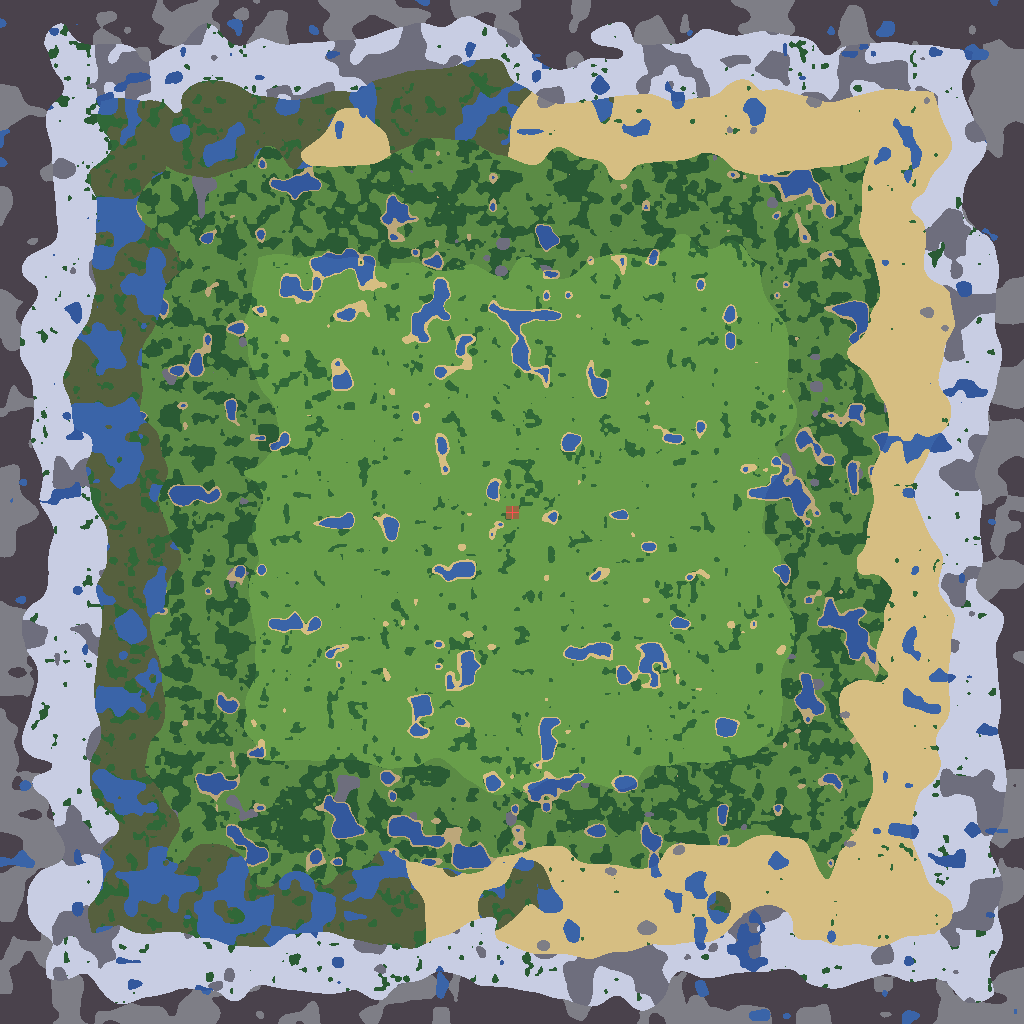
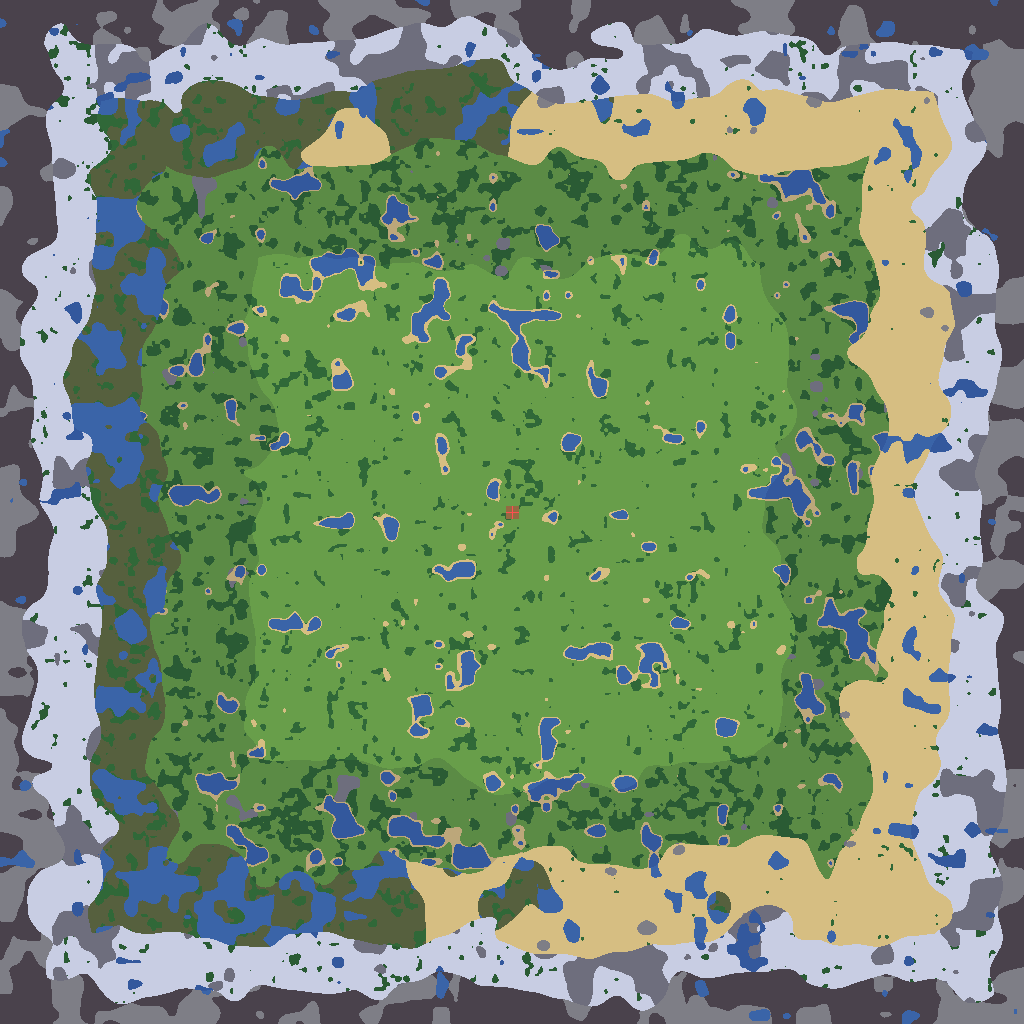
P1b: terrain and trees on Ninja Adventure art, one screenshot per biome
The game was mixing two styles — characters were Ninja Adventure while the
ground they stood on was Kenney — and it showed. Terrain and trees now come
from Ninja Adventure; buildings and crops do not yet, and that is called out
in assets/CREDITS.md rather than left to be noticed.

Fill tiles were found by scanning every tileset for low-variance (flat) tiles
and matching mean colour against the terrain palette, instead of eyeballing
five hundred tiles a sheet. The one tile I did pick by eye, TilesetTowers
(0,0), turned out to be a tower roof rather than a tree, and rendered exactly
like a field of tower roofs until the screenshots showed it.

Three new terrains got real art: snow, marsh and ash, which the ring rewrite
introduced but nothing had drawn yet. Trees are drawn over the ground their
own ring uses, so a wood in the snow ring is rooted in snow rather than
transplanted onto a lawn. Forest density dropped from flora > 0.55 to 0.63
because at the old value a forest was a solid mass of canopy with no gaps to
walk through — 11.0% of the map was tree, now 7.9%.

Adds `--ring N` to the client, which parks the camera at the middle radius of
a biome ring for screenshots. The first version walked outward one step at a
time with a capped step count, which could not physically reach the outer
rings along a diagonal — rings 2, 3 and 4 all produced the same image.
Computing the radius directly fixes it.
[…]

diff --git a/src/render/atlas_slots.hpp b/src/render/atlas_slots.hpp
@@ -22,6 +22,9 @@ enum class Slot : std::uint8_t {
     kTerrainWater,
     kTerrainStone,
     kTerrainSand,
+    kTerrainSnow,
+    kTerrainMarsh,
+    kTerrainAsh,
     kTreeTop,
     kTree,
     kTreeTopPine,
@@ -48,23 +51,26 @@ inline constexpr AtlasRect kAtlasRects[static_cast<int>(Slot::kCount)] = {
     {37, 1},  // kTerrainWater
     {55, 1},  // kTerrainStone
     {73, 1},  // kTerrainSand
-    {91, 1},  // kTreeTop
-    {109, 1},  // kTree
-    {127, 1},  // kTreeTopPine
-    {1, 19},  // kTreePine
-    {19, 19},  // kCropSeedling
-    {37, 19},  // kCropGrowing
-    {55, 19},  // kCropWheatRipe
-    {73, 19},  // kCropCarrotRipe
-    {91, 19},  // kCropPumpkinRipe
-    {109, 19},  // kBuildHearth
-    {127, 19},  // kBuildWall
-    {1, 37},  // kBuildWallRun
-    {19, 37},  // kBuildTurret
-    {37, 37},  // kBuildPlot
-    {55, 37},  // kBuildFence
-    {73, 37},  // kBuildFencePost
-    {91, 37},  // kSpawnCamp
+    {91, 1},  // kTerrainSnow
+    {109, 1},  // kTerrainMarsh
+    {127, 1},  // kTerrainAsh
+    {1, 19},  // kTreeTop
+    {19, 19},  // kTree
+    {37, 19},  // kTreeTopPine
+    {55, 19},  // kTreePine
+    {73, 19},  // kCropSeedling
+    {91, 19},  // kCropGrowing
+    {109, 19},  // kCropWheatRipe
+    {127, 19},  // kCropCarrotRipe
+    {1, 37},  // kCropPumpkinRipe
+    {19, 37},  // kBuildHearth
+    {37, 37},  // kBuildWall
+    {55, 37},  // kBuildWallRun
+    {73, 37},  // kBuildTurret
+    {91, 37},  // kBuildPlot
+    {109, 37},  // kBuildFence
+    {127, 37},  // kBuildFencePost
+    {1, 55},  // kSpawnCamp
 };
 
 [[nodiscard]] inline constexpr AtlasRect rect_of(Slot s) noexcept {
@@ -94,12 +100,12 @@ enum class Anim : std::uint8_t {
 };
 
 inline constexpr AtlasAnim kAtlasAnims[static_cast<int>(Anim::kCount)] = {
-    {1, 55, 4, 4},  // kPlayer
-    {1, 127, 4, 4},  // kMobSlime
-    {1, 199, 4, 4},  // kMobSpider
-    {1, 271, 4, 4},  // kMobSpirit
-    {1, 343, 2, 1},  // kChicken
-    {1, 361, 2, 1},  // kCow
+    {1, 73, 4, 4},  // kPlayer
+    {1, 145, 4, 4},  // kMobSlime
+    {1, 217, 4, 4},  // kMobSpider
+    {1, 289, 4, 4},  // kMobSpirit
+    {1, 361, 2, 1},  // kChicken
+    {1, 379, 2, 1},  // kCow
 };
 
 [[nodiscard]] inline constexpr const AtlasAnim& anim_of(Anim a) noexcept {

diff --git a/tools/build_atlas.py b/tools/build_atlas.py
@@ -29,6 +29,15 @@ SHEETS = {
     "RL": (SRC / "roguelike/Spritesheet/roguelikeSheet_transparent.png", 17),
     "TT": (SRC / "tinytown/Tilemap/tilemap_packed.png", 16),
     "TD": (SRC / "tinydungeon/Tilemap/tilemap_packed.png", 16),
+    # Ninja Adventure tilesets. No gutter, so stride 16. Fill tiles were located by scanning every
+    # sheet for low-variance (flat) tiles and matching mean colour against the terrain palette —
+    # eyeballing 500 tiles per sheet is not a method.
+    "NFloor": (SRC / "ninja/Backgrounds/Tilesets/TilesetFloor.png", 16),
+    "NWater": (SRC / "ninja/Backgrounds/Tilesets/TilesetWater.png", 16),
+    "NDesert": (SRC / "ninja/Backgrounds/Tilesets/TilesetDesert.png", 16),
+    "NRelief": (SRC / "ninja/Backgrounds/Tilesets/TilesetRelief.png", 16),
+    "NLogic": (SRC / "ninja/Backgrounds/Tilesets/TilesetLogic.png", 16),
+    "NTree": (SRC / "ninja/Backgrounds/Tilesets/TilesetNature.png", 16),
 }
 
 TILE = 16
@@ -41,21 +50,23 @@ KEY_COLOR = {"TD": (63, 38, 49, 255)}
 
 # slot name -> (sheet, col, row).  Order defines the generated enum order.
 MANIFEST = [
-    # --- terrain (opaque, drawn as the base layer) ---
-    ("TerrainGrass",     "RL",  5,  1),
-    ("TerrainDirt",      "RL",  6,  1),
-    ("TerrainWater",     "RL",  1,  0),
-    ("TerrainStone",     "RL",  7,  1),
-    ("TerrainSand",      "RL",  8,  1),
-    # --- overlays (transparent, drawn over grass) ---
-    # The roguelike pack's tall tree is TWO tiles: canopy dome on top of canopy-base-plus-trunk.
-    # Row 9 holds a complete one-tile tree, but the two-tile version is what reads as a forest.
-    ("TreeTop",          "RL", 13, 10),
-    ("Tree",             "RL", 13, 11),
-    # A second species, picked per tile by hash. One repeated tree sprite made a forest read as a
-    # stamped grid; two silhouettes plus mirroring breaks the pattern without more art.
-    ("TreeTopPine",      "RL", 16, 10),
-    ("TreePine",         "RL", 16, 11),
+    # --- terrain (opaque, drawn as the base layer) — all Ninja Adventure ---
+    ("TerrainGrass",     "NFloor",   0, 12),
+    ("TerrainDirt",      "NFloor",  11, 19),
+    ("TerrainWater",     "NWater",   1,  1),
+    ("TerrainStone",     "NFloor",  20, 14),
+    ("TerrainSand",      "NDesert", 15,  8),
+    ("TerrainSnow",      "NFloor",   0, 19),
+    ("TerrainMarsh",     "NRelief",  8,  1),
+    ("TerrainAsh",       "NLogic",   6,  0),
+    # --- overlays (transparent, drawn over the base layer) ---
+    # Ninja Adventure's trees are two tiles as well: canopy on top of trunk.
+    ("TreeTop",          "NTree",    5,  3),
+    ("Tree",             "NTree",    5,  4),
+    # A second species, picked per tile by hash — one repeated sprite makes a forest read as a
+    # stamped grid.
+    ("TreeTopPine",      "NTree",    1,  3),
+    ("TreePine",         "NTree",    1,  4),
     # --- crops: stage 0-1 use the seedling, 2 the growing plant, 3 the ripe per-kind sprite ---
     ("CropSeedling",     "RL", 44, 23),
     ("CropGrowing",      "RL", 44, 24),

diff --git a/src/render/raylib_bridge.cpp b/src/render/raylib_bridge.cpp
@@ -15,6 +15,20 @@ namespace {
 // The only place game concepts meet sprites. WHICH pixels a slot points at is decided by the
 // manifest in tools/build_atlas.py, not here — so re-arting the game never touches this file.
 
+// What a tree stands on, per ring — so a wood in the snow ring is rooted in snow rather than
+// transplanted onto a lawn.
+[[nodiscard]] Terrain ground_under_tree(Ring r) {
+    switch (r) {
+        case Ring::kMeadow:
+        case Ring::kForest: return Terrain::kGrass;
+        case Ring::kWetland: return Terrain::kMarsh;
+        case Ring::kSnow: return Terrain::kSnow;
+        case Ring::kWasteland:
+        case Ring::kCount: break;
+    }
+    return Terrain::kAsh;
+}
+
 [[nodiscard]] Slot slot_of(Terrain t) {
     switch (t) {
         case Terrain::kGrass: return Slot::kTerrainGrass;
@@ -22,7 +36,13 @@ namespace {
         case Terrain::kWater: return Slot::kTerrainWater;
         case Terrain::kStone: return Slot::kTerrainStone;
         case Terrain::kSand: return Slot::kTerrainSand;
-        case Terrain::kTree: return Slot::kTerrainGrass;  // tree is an OVERLAY drawn over grass
+        case Terrain::kSnow: return Slot::kTerrainSnow;
+        case Terrain::kMarsh: return Slot::kTerrainMarsh;
+        case Terrain::kAsh: return Slot::kTerrainAsh;
+        // A tree is an OVERLAY: the base layer under it is whatever the surrounding ring uses, so
+        // a forest in the snow ring stands on snow rather than on grass.
+        case Terrain::kTree: return Slot::kTerrainGrass;
+        case Terrain::kCount: break;
     }
     return Slot::kTerrainGrass;
 }
@@ -229,7 +249,13 @@ void RaylibBridge::draw(const SnapshotBus& bus, const WorldStatus& status,
                     const int gx = base_x + lx;
                     if (gx < min_tx || gx > max_tx) continue;
                     const auto t = static_cast<Terrain>(v->terrain[ly * kChunkTiles + lx]);
-                    im.tile(slot_of(t), gx, gy, WHITE, tile_variant(c.map, gx, gy));
+                    // Trees are drawn over the ring's own ground, so a forest in the snow ring
+                    // stands on snow. Without this every wood looked like it had been transplanted
+                    // onto a lawn.
+                    const Slot base = (t == Terrain::kTree)
+                                          ? slot_of(ground_under_tree(ring_of(kWorldSeed, gx, gy)))
+                                          : slot_of(t);
+                    im.tile(base, gx, gy, WHITE, tile_variant(c.map, gx, gy));
                 }
             }
             // Trees, top-down within the chunk so a nearer tree's canopy overlaps the one behind it.

diff --git a/src/client_main.cpp b/src/client_main.cpp
@@ -30,12 +30,15 @@ int main(int argc, char** argv) {
     const char* shot_path = nullptr;
     int look_camp = -1;            // --camp N: point the camera at spawn camp N instead of the farm
     const char* shot_screen = nullptr;  // --screen NAME: force a shell screen for the screenshot
+    int look_ring = -1;                 // --ring N: park the camera in biome ring N
     for (int i = 1; i < argc; ++i) {
         if (std::strcmp(argv[i], "--shot") == 0 && i + 2 < argc) {
             shot_seconds = std::atoi(argv[i + 1]);
             shot_path = argv[i + 2];
         } else if (std::strcmp(argv[i], "--camp") == 0 && i + 1 < argc) {
             look_camp = std::atoi(argv[i + 1]);
+        } else if (std::strcmp(argv[i], "--ring") == 0 && i + 1 < argc) {
+            look_ring = std::atoi(argv[i + 1]);  // 0..4 — put the camera in that biome ring
         } else if (std::strcmp(argv[i], "--screen") == 0 && i + 1 < argc) {
             shot_screen = argv[i + 1];  // menu | journal | paused — for verifying the shell
         }
@@ -128,6 +131,22 @@ int main(int argc, char** argv) {
 
         // The camera follows the player, so looking at a spawn camp means walking there. The move
         // is relative, hence the delta.
+        // Park the camera at the MIDDLE radius of the requested ring. An earlier version walked
+        // outward a step at a time and capped the step count, which could not physically reach the
+        // outer rings along a diagonal — rings 2, 3 and 4 all produced the same screenshot.
+        if (look_ring >= 0 && look_ring < kRingCount) {
+            const float inner = look_ring == 0 ? 0.0f : kRingEdge[look_ring - 1];
+            const float outer = std::min(kRingEdge[look_ring], 0.99f);
+            const float mid = (inner + outer) * 0.5f;
+            const float half = static_cast<float>(kMapTiles) * 0.5f;
+            // Chebyshev radius `mid` means max(|dx|,|dy|) == mid*half; lead with x and take a
+            // fraction of it in y so the shot is not on a perfect diagonal.
+            const float bx = half + mid * half;
+            const float by = half + mid * half * 0.35f;
+            world.move_player(bx - player.x, by - player.y);
+            world.sync_world();
+            player = world.player_view();
+        }
         if (look_camp >= 0 && look_camp < kSpawnCamps) {
             const auto camps = World::camps(player.map);
             const auto [ctx, cty] = camps[static_cast<std::size_t>(look_camp)];

diff --git a/src/world/tiles.hpp b/src/world/tiles.hpp
@@ -35,6 +35,10 @@ inline constexpr int kChunkCount = kMapCount * kChunksPerMap;
 
 inline constexpr std::uint16_t kOverworld = 0;
 
+// The world seed lives here, not in world.hpp, because `terrain_of` is the thing that consumes it
+// and the renderer needs it too (to know which ring a tile is in without asking an actor).
+inline constexpr std::uint64_t kWorldSeed = 0x5EED'0BEEF'CAFEull;
+
 // Where a new player is dropped: the centre of the map, which is also the easiest ring. The tilled
 // apron there is part of the terrain *function* (below), not an edit applied afterwards — see
 // `terrain_of`. Once world generation lands (ROADMAP P1) this becomes "the starting village", and
@@ -400,7 +404,7 @@ private:
             if (wet < 0.26f) return Terrain::kWater;
             if (wet < 0.30f) return Terrain::kSand;
             if (rock > 0.80f) return Terrain::kStone;
-            if (flora > 0.55f) return Terrain::kTree;  // dense
+            if (flora > 0.63f) return Terrain::kTree;  // dense, but with gaps you can walk through
             return Terrain::kGrass;
 
         case Ring::kWetland: {

diff --git a/src/world/world.hpp b/src/world/world.hpp
@@ -34,7 +34,6 @@
 
 namespace mmo {
 
-inline constexpr std::uint64_t kWorldSeed = 0x5EED'0BEEF'CAFEull;
 inline constexpr std::uint64_t kPlayerKey = 1;
 inline constexpr std::uint64_t kDirectorKey = 1;
 

diff --git a/README.md b/README.md
@@ -21,6 +21,19 @@ a gate when you feel like an adventure. Built on the [QuarkCpp](../QuarkCpp) act
 <sub>The whole 1024x1024 overworld, exported by `mmo_worldmap`. Difficulty radiates out from the
 centre: Meadow, Forest, Wetland (swamp west / desert east), Snow, Wasteland.</sub>
 
+### Biomes
+
+| | |
+|---|---|
+| ![meadow](docs/biomes/ring0.png) | ![forest](docs/biomes/ring1.png) |
+| **Meadow** — the chill ring, 26% of the map | **Forest** |
+| ![wetland](docs/biomes/ring2.png) | ![snow](docs/biomes/ring3.png) |
+| **Wetland** — desert east, swamp west | **Snow** |
+| ![wasteland](docs/biomes/ring4.png) | |
+| **Wasteland** | |
+
+<sub>`./build/mmo_client --shot 20 out.png --ring N` parks the camera in biome ring N.</sub>
+
 ![farm](docs/shot_farm.png)
 
 <sub>Day: the walled farm, turrets (gold pips mark upgrade level), flanking fences, crops at four

diff --git a/assets/CREDITS.md b/assets/CREDITS.md
@@ -32,8 +32,17 @@ things walking around in it as another.
 
 This is not a licensing problem (both are CC0) but it is a quality one, and it is being fixed in P1
 rather than left, because P1 rewrites the terrain system anyway (radial biome rings) and the tileset
-has to be touched regardless. Ninja Adventure ships a complete 16x16 tileset family that covers
-everything Kenney was doing here:
+has to be touched regardless.
+
+**Done so far: terrain and trees.** All nine terrain types and both tree species now come from Ninja
+Adventure. **Still Kenney: buildings** — wall, turret, fence, hearth, plot — and the crop sprites.
+
+Fill tiles were located by *scanning* every sheet for low-variance (flat) tiles and matching mean
+colour against the terrain palette, rather than by eyeballing five hundred tiles per sheet. The one
+tile picked by eye instead, `TilesetTowers (0,0)`, turned out to be a tower roof rather than a tree
+and looked exactly like what it was.
+
+Ninja Adventure ships a complete 16x16 tileset family that covers everything Kenney was doing here:
 
 | Need | Ninja Adventure tileset |
 |---|---|

diff --git a/ROADMAP.md b/ROADMAP.md
@@ -84,7 +84,9 @@ Dựng sân khấu thật, trước khi tune bất cứ thứ gì lên trên nó
 | 1024×1024 ô = **1024 chunk actor** | ✅ 700 tick chạy trong **1,9 giây** |
 | 5 vòng đồng tâm + 3 địa hình mới (tuyết, đầm lầy, tro) | ✅ |
 | Gỡ `kMapCount = 3` → một mặt đất `kOverworld` | ✅ |
-| Thống nhất art sang Ninja Adventure | ⬜ tileset đã khảo sát, xem `assets/CREDITS.md` |
+| Thống nhất art: **địa hình + cây** sang Ninja Adventure | ✅ 9 loại địa hình, cây 2 mảnh mọc trên nền đúng vòng |
+| Thống nhất art: **công trình** (tường, tháp, rào, lò sưởi, luống) | ⬜ vẫn còn Kenney |
+| Ảnh từng quần xã (`--ring N`) | ✅ `docs/biomes/` |
 | Worldgen đặt làng / cứ điểm / cổng / mỏ / đường | ⬜ |
 | BFS đa nguồn + `PathfieldActor` debounce | ⬜ |
 | LOD chunk (10 Hz / 1 Hz / ngủ) | ⬜ |